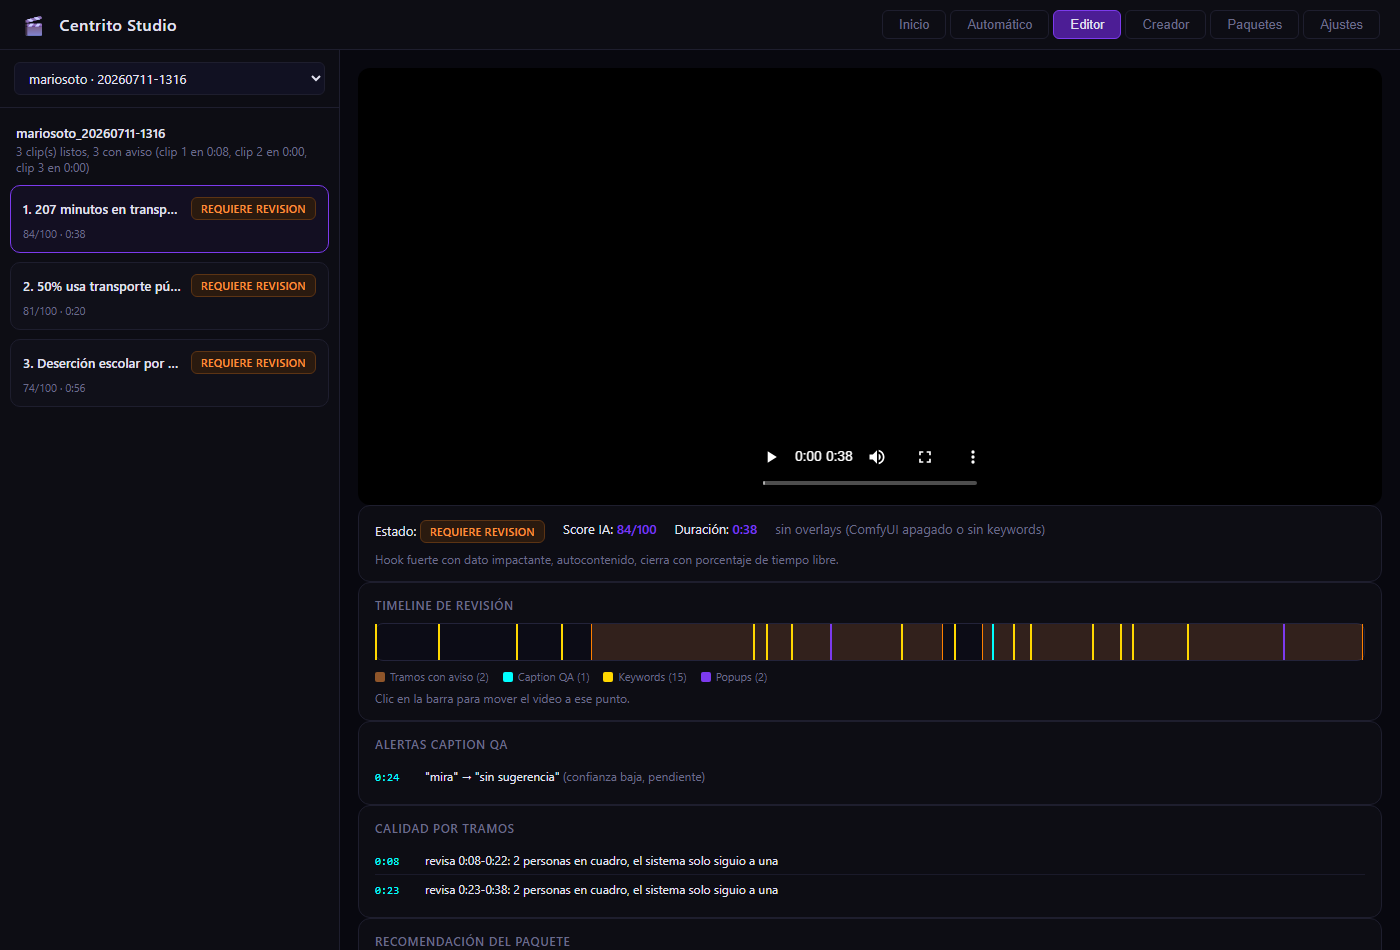
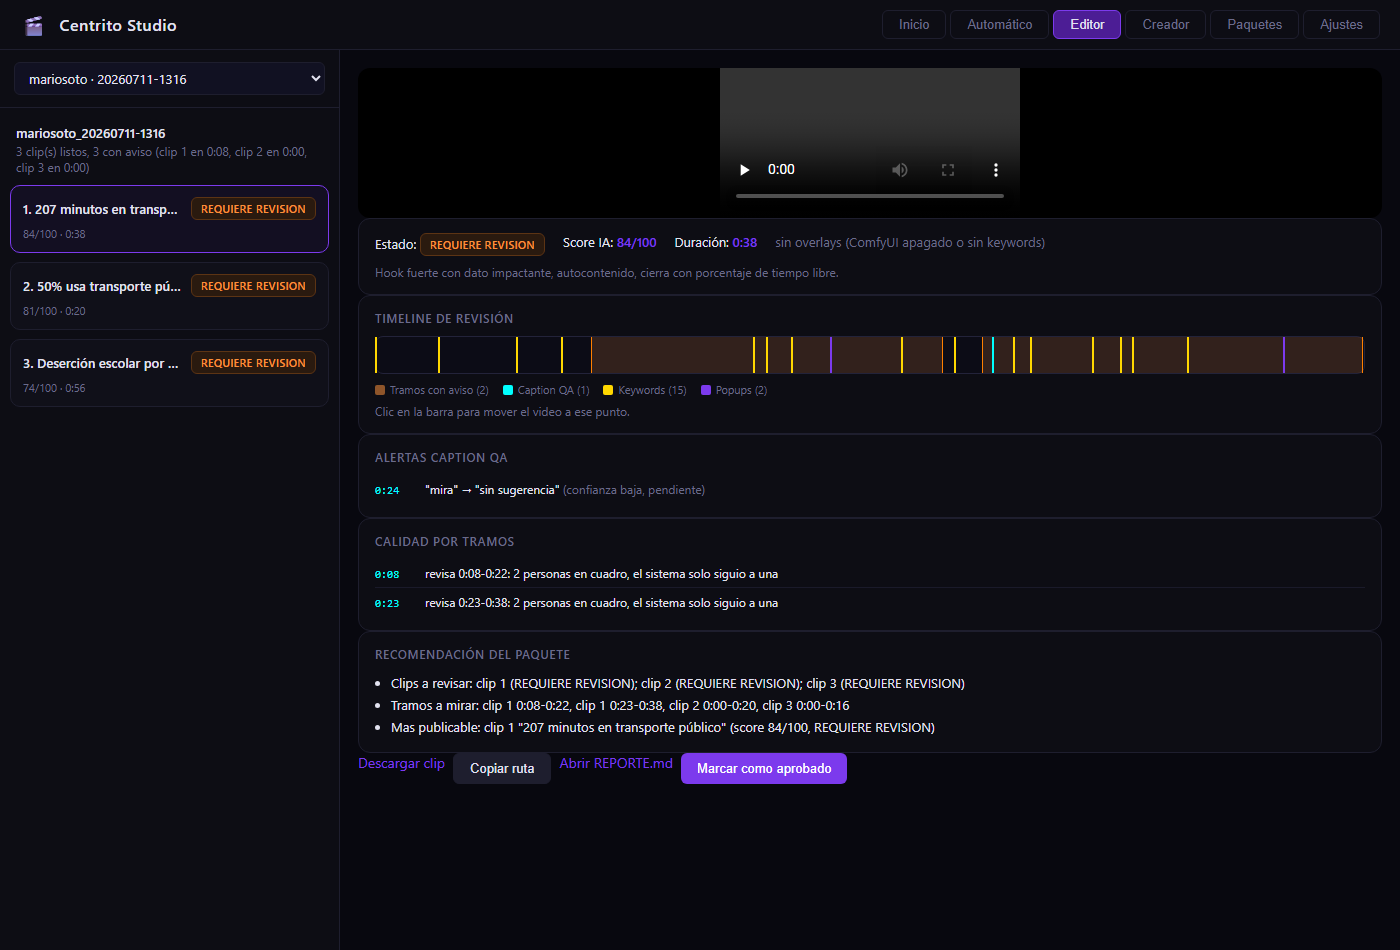
s35: editor de paquete alpha y ui premium
Commit de cierre de S35. Incorpora el fix del revisor: escape HTML (escHtml)
de todo dato de paquete que entra por innerHTML (titulo/razon/sugerencia/
tramos/recomendacion/estado/nombre), ya que provienen del LLM y de la
transcripcion — un '<' o '&' rompia el render. Reglas duras verificadas por el
revisor: motores intactos, guard de traversal correcto, paquete_editor puro/
fail-open, showTab sin indices. check.bat verde (349 tests).

diff --git a/static/index.html b/static/index.html
@@ -598,6 +598,14 @@ function renderAutoIncluye() {
 // esc(): escapa comillas simples para uso seguro en atributos onclick inline
 function esc(s) { return String(s).replace(/\\/g, '\\\\').replace(/'/g, "\\'"); }
 
+// escHtml(): escapa texto para inyeccion segura por innerHTML. Los titulos/razones
+// vienen del LLM y de la transcripcion (no confiables como HTML): un '<' o '&'
+// rompe el render o inyecta DOM. Usar en TODO dato de paquete que entre a innerHTML.
+function escHtml(s) {
+  return String(s == null ? '' : s)
+    .replace(/&/g, '&amp;').replace(/</g, '&lt;').replace(/>/g, '&gt;').replace(/"/g, '&quot;');
+}
+
 // loadStyles(): puebla el dropdown de estilos desde /api/styles (estilos nuevos
 // aparecen solos, sin editar el HTML). Fail-safe: si falla, conserva el fallback estatico.
 async function loadStyles() {
@@ -1500,15 +1508,15 @@ function renderAutoResult(result) {
   clipsEl.innerHTML = '';
   (result.clips || []).forEach((c, i) => {
     const avisos = (c.avisos || []).map(a =>
-      `<div style="font-size:11px;color:#e5a94e;margin-top:2px">⚠ ${a.texto}</div>`).join('');
+      `<div style="font-size:11px;color:#e5a94e;margin-top:2px">⚠ ${escHtml(a.texto)}</div>`).join('');
     const div = document.createElement('div');
     div.style.cssText = 'border:var(--border);border-radius:8px;padding:12px';
     div.innerHTML = `
       <div style="display:flex;justify-content:space-between;align-items:baseline">
-        <span style="font-size:13px;font-weight:500">${i+1}. ${c.titulo || c.archivo}</span>
+        <span style="font-size:13px;font-weight:500">${i+1}. ${escHtml(c.titulo || c.archivo)}</span>
         <span style="color:var(--purple);font-weight:500">${c.score ?? '—'}/100</span>
       </div>
-      <div style="font-size:11px;color:var(--muted);margin-top:2px">${fmtTime(c.dur_s || 0)} · ${c.emojis_msg || ''}</div>
+      <div style="font-size:11px;color:var(--muted);margin-top:2px">${fmtTime(c.dur_s || 0)} · ${escHtml(c.emojis_msg || '')}</div>
       ${avisos || '<div style="font-size:11px;color:var(--muted);margin-top:2px">Calidad OK en todo el clip</div>'}
       <a href="/output/${result.paquete ? result.paquete.replace(/^output\//,'') + '/' : ''}${c.archivo}" download
          class="btn secondary" style="font-size:12px;padding:4px 12px;margin-top:8px;display:inline-block">Descargar</a>`;
@@ -1703,7 +1711,7 @@ function estadoClass(estado) {
   }[estado] || 'LISTO';
 }
 function estadoBadge(estado) {
-  return `<span class="estado ${estadoClass(estado)}">${estado || 'LISTO'}</span>`;
+  return `<span class="estado ${estadoClass(estado)}">${escHtml(estado || 'LISTO')}</span>`;
 }
 
 // Cockpit del Home: hero + cards de los 3 modos + capacidades. Los conteos
@@ -1815,7 +1823,7 @@ function _renderPkgSelect() {
   if (!sel) return;
   const prev = sel.value;
   sel.innerHTML = '<option value="">— Elegir paquete —</option>' +
-    paquetesCache.map(p => `<option value="${p.id}">${p.name} · ${p.fecha}</option>`).join('');
+    paquetesCache.map(p => `<option value="${escHtml(p.id)}">${escHtml(p.name)} · ${escHtml(p.fecha)}</option>`).join('');
   if (paquetesCache.some(p => p.id === prev)) sel.value = prev;
 }
 // Lista de paquetes (tab Paquetes): tarjetas con estados; click abre el Editor.
@@ -1829,8 +1837,8 @@ function _renderPkgList() {
   list.innerHTML = paquetesCache.map(p => `
     <div class="pkg-card" onclick="openPaqueteEnEditor('${esc(p.id)}')">
       <div>
-        <div class="pk-name">${p.name}</div>
-        <div class="pk-meta">${p.fecha} · ${p.n_clips} clip(s) · ${p.resumen}</div>
+        <div class="pk-name">${escHtml(p.name)}</div>
+        <div class="pk-meta">${escHtml(p.fecha)} · ${p.n_clips} clip(s) · ${escHtml(p.resumen)}</div>
       </div>
       <div class="pk-estados">${(p.estados||[]).map(estadoBadge).join('')}</div>
     </div>`).join('');
@@ -1896,13 +1904,13 @@ function renderRevClips() {
   const el = document.getElementById('rev-clips');
   const meta = pkgActual.meta || {};
   const head = `<div style="padding:6px 6px 10px">
-    <div style="font-size:13px;font-weight:500">${pkgActual.id}</div>
-    <div class="msg" style="margin-top:2px">${pkgActual.resumen || ''}</div>
+    <div style="font-size:13px;font-weight:500">${escHtml(pkgActual.id)}</div>
+    <div class="msg" style="margin-top:2px">${escHtml(pkgActual.resumen || '')}</div>
   </div>`;
   el.innerHTML = head + pkgActual.clips.map((c, i) => `
     <div class="rev-clip ${i===revClipSel?'sel':''}" onclick="selectRevClip(${i})">
       <div class="rc-top">
-        <span class="rc-title">${i+1}. ${c.titulo || c.archivo}</span>
+        <span class="rc-title">${i+1}. ${escHtml(c.titulo || c.archivo)}</span>
         ${estadoBadge(c.estado)}
       </div>
       <div class="rc-sub">${(c.score ?? '—')}/100 · ${fmtTime(c.dur_s||0)}${estaAprobado(c.archivo)?' · ✅ aprobado':''}</div>
@@ -1921,18 +1929,18 @@ function selectRevClip(i) {
   const alertasHtml = alertas.length ? alertas.map(a => `
     <div class="rev-alert">
       <span class="ts">${fmtTime(a.timestamp||0)}</span>
-      <span>"${a.texto_detectado||'?'}" → "${a.sugerencia||'sin sugerencia'}"
-        <span style="color:var(--muted)">(confianza ${a.confianza||'?'}, ${a.aplicada?'aplicada':'pendiente'})</span></span>
+      <span>"${escHtml(a.texto_detectado||'?')}" → "${escHtml(a.sugerencia||'sin sugerencia')}"
+        <span style="color:var(--muted)">(confianza ${escHtml(a.confianza||'?')}, ${a.aplicada?'aplicada':'pendiente'})</span></span>
     </div>`).join('')
     : '<div class="rev-empty">Sin alertas de subtítulos.</div>';
 
   const tramosHtml = (c.avisos||[]).length ? (c.avisos||[]).map(a =>
-      `<div class="rev-alert"><span class="ts">${fmtTime(a.t_ini||0)}</span><span>${a.texto||''}</span></div>`).join('')
+      `<div class="rev-alert"><span class="ts">${fmtTime(a.t_ini||0)}</span><span>${escHtml(a.texto||'')}</span></div>`).join('')
     : (c.tramos_disponibles === false
         ? '<div class="rev-empty">Métricas no disponibles (clip reutilizado, no se re-renderizó).</div>'
         : '<div class="rev-empty">Calidad OK en todo el clip.</div>');
 
-  const rec = (pkgActual.recomendacion||[]).map(l => `<li>${l.replace(/^- /,'')}</li>`).join('');
+  const rec = (pkgActual.recomendacion||[]).map(l => `<li>${escHtml(l.replace(/^- /,''))}</li>`).join('');
 
   detail.innerHTML = `
     <div id="rev-toast" style="position:fixed;bottom:18px;left:50%;transform:translateX(-50%);
@@ -1946,9 +1954,9 @@ function selectRevClip(i) {
         <span>Estado: ${estadoBadge(c.estado)}</span>
         <span>Score IA: <b>${c.score ?? '—'}/100</b></span>
         <span>Duración: <b>${fmtTime(c.dur_s||0)}</b></span>
-        <span style="color:var(--muted)">${c.emojis_msg||''}</span>
+        <span style="color:var(--muted)">${escHtml(c.emojis_msg||'')}</span>
       </div>
-      <div class="msg" style="margin-top:8px">${c.razon||''}</div>
+      <div class="msg" style="margin-top:8px">${escHtml(c.razon||'')}</div>
     </div>
     <div id="rev-timeline-slot"></div>
     <div class="rev-block">